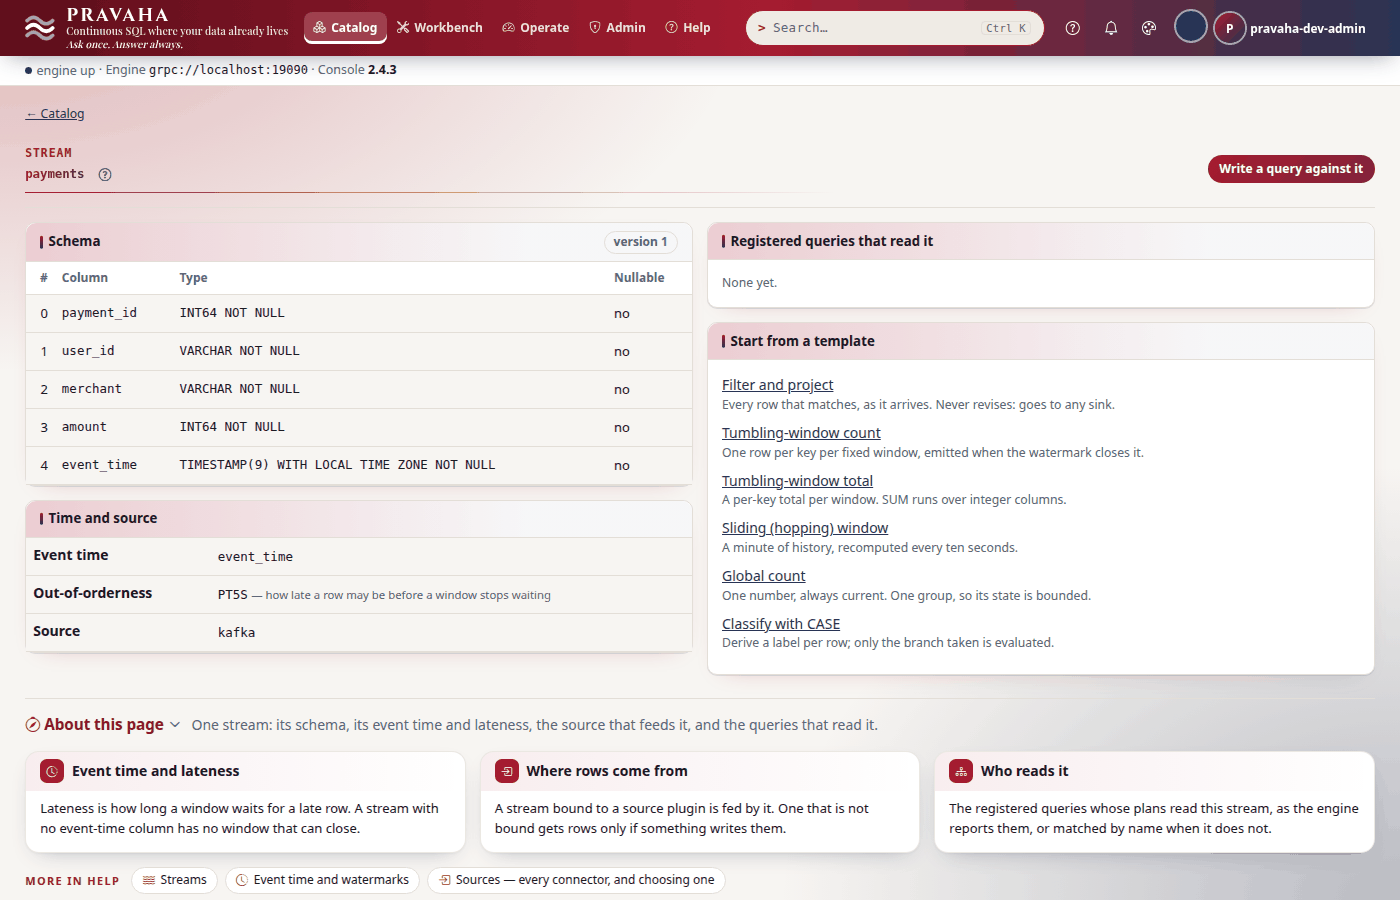
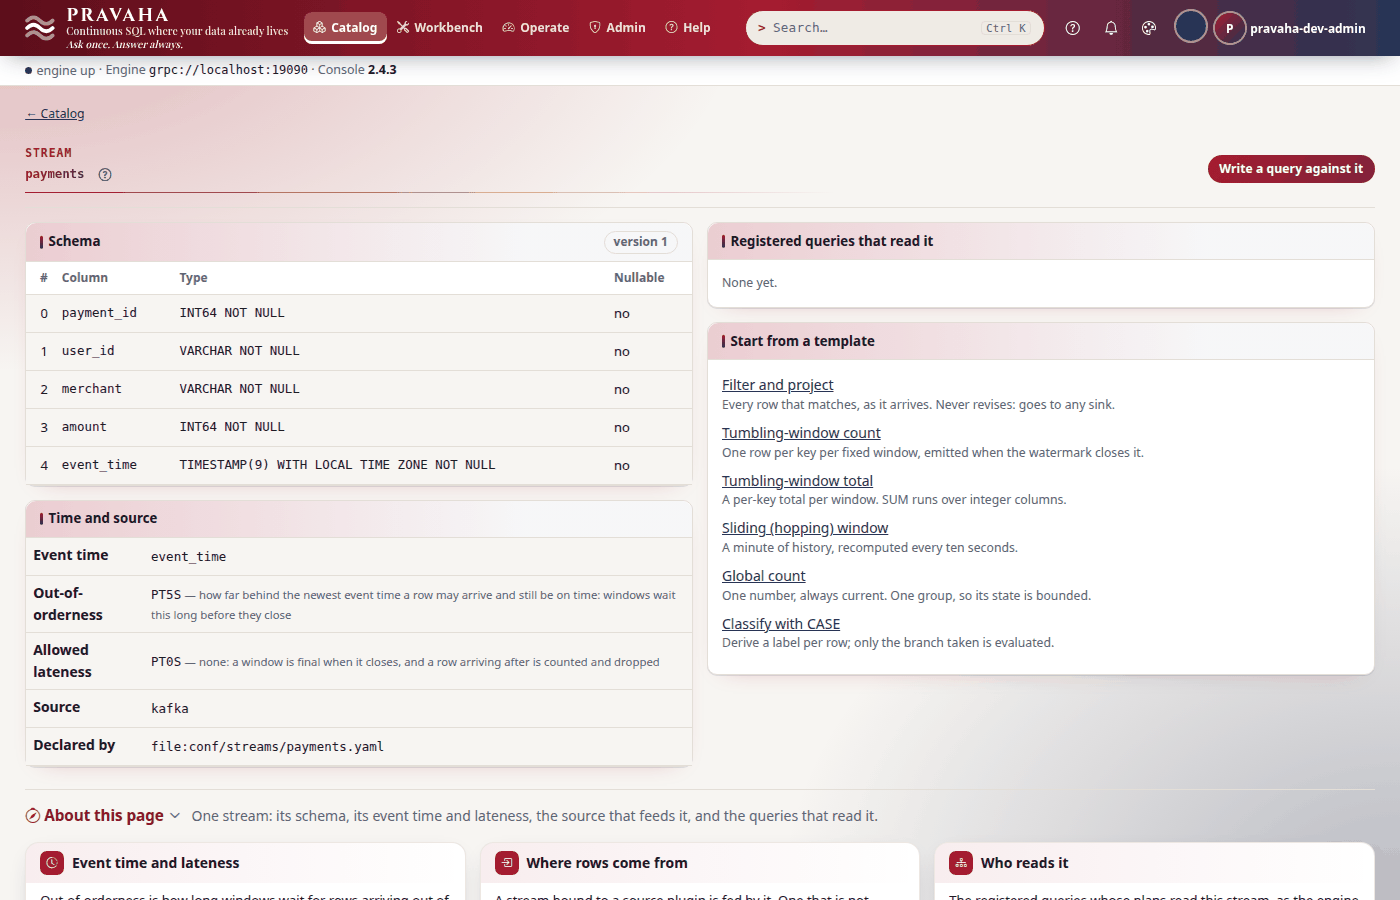
Tutorial 7: the broker said once, a named connection per plugin (kafka-local, kafka-local-out), the streams and sinks a file each; the stream page with its origin

Changed region(s): [[0.0, 0.6533, 0.9829, 1.0], [0.1229, 0.5911, 0.1843, 0.6222], [0.86, 0.0, 0.8907, 0.0311]]

diff --git a/sdk/python/tools/tutorials/t07.py b/sdk/python/tools/tutorials/t07.py
@@ -28,6 +28,9 @@ KAFKA = Container(
 )
 
 NODE = Node(config="t07/application.yaml", containers=(KAFKA,), files=(
+    ("t07/streams", "conf/streams"),
+    ("t07/sinks", "conf/sinks"),
+    ("t07/connectors", "conf/connectors"),
     ("t07/payments.jsonl", "payments.jsonl"),
     ("t07/user_spend.avsc", "conf/user_spend.avsc"),
     ("t07/user_spend.avsc", "user_spend.avsc"),
@@ -85,6 +88,7 @@ STEPS = (
     Cli("t07-plugins", ("plugins",), omit=(r"^(?!NAME|kafka)",)),
     Cli("t07-streams", ("streams", "list")),
     Cli("t07-sinks", ("sinks",)),
+    Cli("t07-connectors", ("connectors", "list")),
     Open("/catalog/streams/payments"),
     Snap("01-stream"),
     Cli("t07-register-big", ("register", *Q, "--sql", BIG, "--keys", "0", "--sink", "big_payments_out")),

diff --git a/docs/tutorials/07-kafka-end-to-end.md b/docs/tutorials/07-kafka-end-to-end.md
@@ -19,17 +19,18 @@ file. Every output below was printed by a real node and a real broker running th
   windows in step 5, and [tutorial 6](06-investigating-an-incident.md) for the dead-letter queue.
 - Docker, to run a Kafka broker. The tutorial uses `apache/kafka:3.9.1` on `localhost:9092`; if
   something of yours already listens there, publish the broker on another port (`-p 29092:9092`) and
-  change `bootstrap.servers` to match.
-- The tutorial's files, in [data/t07/](data/t07/): `application.yaml` (two Kafka sources, two Kafka
-  sinks, a dead-letter queue, checkpoints every 5 seconds), `payments.jsonl` (eight payments, one JSON
-  object a line), `user_spend.sql` and `user_spend.avsc` (the Avro schema both sides use).
+  change `bootstrap.servers` to match — in the two files of `connectors/`, the only place it is written.
+- The tutorial's files, in [data/t07/](data/t07/): `application.yaml` (a dead-letter queue, checkpoints
+  every 5 seconds), two streams fed by Kafka (`streams/`), two Kafka sinks (`sinks/`), the broker as a
+  named connection for each plugin (`connectors/`), `payments.jsonl` (eight payments, one JSON object a
+  line), `user_spend.sql` and `user_spend.avsc` (the Avro schema both sides use).
 - A broker, and a node home with the configuration and the schema in place:
 
 ```bash
 docker run -d --name pravaha-kafka -p 9092:9092 apache/kafka:3.9.1
 export PRAVAHA_HOME=$HOME/pravaha-t07
 mkdir -p $PRAVAHA_HOME/conf $PRAVAHA_HOME/data
-cp docs/tutorials/data/t07/application.yaml docs/tutorials/data/t07/user_spend.avsc $PRAVAHA_HOME/conf/
+cp -r docs/tutorials/data/t07/{application.yaml,user_spend.avsc,streams,sinks,connectors} $PRAVAHA_HOME/conf/
 cd docs/tutorials/data/t07
 ```
 
@@ -90,32 +91,45 @@ You should see three `Created topic` lines, and the payments as JSON objects.
 
 ## Step 2 · Bind the topic to a stream
 
-The binding is configuration. The stream says what a payment is; the source says where payments come
-from and how a record's value becomes a row:
+The binding is configuration, a file per stream. The stream says what a payment is; its `source:`
+says where payments come from and how a record's value becomes a row. Where the broker is — and, in
+production, its TLS and SASL settings — is said once, in a **named connection** every Kafka binding
+names:
 
 ```yaml
-# data/t07/application.yaml (the payments)
+# conf/connectors/kafka-local.yaml (the broker, for the kafka source plugin)
+plugin: kafka
+options:
+  bootstrap.servers: "localhost:9092"
+```
+
+```yaml
+# conf/streams/payments.yaml
+schema: "payment_id:INT64,user_id:STRING,merchant:STRING,amount:INT64,event_time:TIMESTAMP"
+event-time: event_time
+out-of-orderness: 5s
+source:
+  connector: kafka-local              # the plugin and bootstrap.servers come from the connection
+  options:
+    topic: payments
+    schema: "payment_id:INT64,user_id:STRING,merchant:STRING,amount:INT64,event_time:TIMESTAMP"
+    format: json                      # each value a JSON object of the row, by column name
+    start.from: earliest
+    monitoring.group: pravaha-payments   # checkpointed offsets reported here; never read back
+```
+
+```yaml
+# conf/application.yaml
 pravaha:
-  streams:
-    payments:
-      schema: "payment_id:INT64,user_id:STRING,merchant:STRING,amount:INT64,event_time:TIMESTAMP"
-      event-time: event_time
-      out-of-orderness: 5s
-  sources:
-    payments:
-      plugin: kafka
-      options:
-        bootstrap.servers: "localhost:9092"
-        topic: payments
-        schema: "payment_id:INT64,user_id:STRING,merchant:STRING,amount:INT64,event_time:TIMESTAMP"
-        format: json                  # each value a JSON object of the row, by column name
-        start.from: earliest
-        monitoring.group: pravaha-payments   # checkpointed offsets reported here; never read back
   dlq:
     directory: data/dlq               # a record no source can decode is set aside; the source reads on
   checkpoint:
     interval: 5s                      # the sinks commit what each checkpoint covers
 ```
+
+A binding's options are the connection's with its own laid over them; on a clash the binding wins. A
+connection is for one plugin: the sinks reach the same broker through `kafka-local-out`, whose plugin
+is `kafka-sink`, and naming a connection of the other plugin is refused (`PRV-1068`).
 
 `format: json` matches a value's members to the columns **by name**: a member the schema does not name
 is ignored, a missing one is null (and refused if the column is not nullable). `start.from: earliest`
@@ -139,9 +153,9 @@ kafka-sink        <version>    sink         yes         yes     UNKNOWN  sink:bi
 <!-- capture: t07-streams -->
 ```text
 $ pravaha streams list
-NAME             VERSION  EVENT TIME  LATENESS  SOURCE  FIELDS
-payments         1        event_time  PT5S      kafka   payment_id INT64 NOT NULL, user_id VARCHAR NOT NULL, merchant VARCHAR NOT NULL, amount INT64 NOT NULL, event_time TIMESTAMP(9) WITH LOCAL TIME ZONE NOT NULL
-user_spend_avro  1        window_end  PT10S     kafka   user_id VARCHAR NOT NULL, window_end TIMESTAMP(9) WITH LOCAL TIME ZONE NOT NULL, spend INT64 NOT NULL
+NAME             VERSION  EVENT TIME  LATENESS  SOURCE  ORIGIN                                  FIELDS
+payments         1        event_time  PT5S      kafka   file:conf/streams/payments.yaml         payment_id INT64 NOT NULL, user_id VARCHAR NOT NULL, merchant VARCHAR NOT NULL, amount INT64 NOT NULL, event_time TIMESTAMP(9) WITH LOCAL TIME ZONE NOT NULL
+user_spend_avro  1        window_end  PT10S     kafka   file:conf/streams/user_spend_avro.yaml  user_id VARCHAR NOT NULL, window_end TIMESTAMP(9) WITH LOCAL TIME ZONE NOT NULL, spend INT64 NOT NULL
 ```
 <!-- /capture -->
 
@@ -156,27 +170,37 @@ user_spend_out    kafka-sink  RETRACT,UPSERT  yes          EXACTLY_ONCE  -      
 
 `HEALTH UNKNOWN` is honest: nothing has opened a reader yet. A source is opened when the first query
 over it is registered, not when the node starts. The second stream, `user_spend_avro`, is step 6's.
+Each connection lists what names it:
 
-![The Catalog page of the stream payments: its five columns payment_id, user_id, merchant, amount and event_time with their types, event time event_time, out-of-orderness PT5S and source kafka; no registered query reads it yet, and templates for a first query](img/t07/01-stream.png)
+<!-- capture: t07-connectors -->
+```text
+$ pravaha connectors list
+NAME             PLUGIN      ORIGIN                                     USED BY
+kafka-local      kafka       file:conf/connectors/kafka-local.yaml      source:payments, source:user_spend_avro
+kafka-local-out  kafka-sink  file:conf/connectors/kafka-local-out.yaml  sink:big_payments_out, sink:user_spend_out
+```
+<!-- /capture -->
 
-You should see `kafka` and `kafka-sink` loaded, two streams whose source is `kafka`, and two sinks
-that promise `EXACTLY_ONCE`.
+A connection something names is not changed or removed under it: its file's change waits, reported
+as not applied (`PRV-1065`), until nothing names it.
+
+![The Catalog page of the stream payments: its five columns payment_id, user_id, merchant, amount and event_time with their types, event time event_time, out-of-orderness PT5S, source kafka and Declared by file:conf/streams/payments.yaml; no registered query reads it yet, and templates for a first query](img/t07/01-stream.png)
+
+You should see `kafka` and `kafka-sink` loaded, two streams whose source is `kafka`, two sinks
+that promise `EXACTLY_ONCE`, and each connection used by two bindings.
 
 ## Step 3 · A continuous query over the topic, written back to Kafka
 
 Register the payments of 2000 or more, keyed by `payment_id`, writing to the sink `big_payments_out`:
 
 ```yaml
-# data/t07/application.yaml (the sink)
-  sinks:
-    big_payments_out:
-      plugin: kafka-sink
-      options:
-        bootstrap.servers: "localhost:9092"
-        topic: big-payments
-        schema: "payment_id:INT64,user_id:STRING,amount:INT64"
-        key.columns: payment_id
-        transactional: "true"
+# conf/sinks/big_payments_out.yaml (the broker comes from conf/connectors/kafka-local-out.yaml)
+connector: kafka-local-out
+options:
+  topic: big-payments
+  schema: "payment_id:INT64,user_id:STRING,amount:INT64"
+  key.columns: payment_id
+  transactional: "true"
 ```
 
 <!-- capture: t07-register-big -->
@@ -377,26 +401,27 @@ Each user's spend per closed minute, written in Avro. The schema is a file both 
 ```
 
 ```yaml
-# data/t07/application.yaml (Avro out, and back in)
-  sinks:
-    user_spend_out:
-      plugin: kafka-sink
-      options:
-        bootstrap.servers: "localhost:9092"
-        topic: user-spend
-        schema: "user_id:STRING,window_end:TIMESTAMP(3),spend:INT64"
-        key.columns: "user_id,window_end"
-        format: avro
-        schema.file: conf/user_spend.avsc
-  sources:
-    user_spend_avro:
-      plugin: kafka
-      options:
-        bootstrap.servers: "localhost:9092"
-        topic: user-spend
-        schema: "user_id:STRING,window_end:TIMESTAMP,spend:INT64"
-        format: avro
-        schema.file: conf/user_spend.avsc   # the writer schema; no registry needed
+# conf/sinks/user_spend_out.yaml (Avro out)
+connector: kafka-local-out
+options:
+  topic: user-spend
+  schema: "user_id:STRING,window_end:TIMESTAMP(3),spend:INT64"
+  key.columns: "user_id,window_end"
+  format: avro
+  schema.file: conf/user_spend.avsc
+```
+
+```yaml
+# conf/streams/user_spend_avro.yaml (and back in)
+schema: "user_id:STRING,window_end:TIMESTAMP,spend:INT64"
+event-time: window_end
+source:
+  connector: kafka-local
+  options:
+    topic: user-spend
+    schema: "user_id:STRING,window_end:TIMESTAMP,spend:INT64"
+    format: avro
+    schema.file: conf/user_spend.avsc   # the writer schema; no registry needed
 ```
 
 `TIMESTAMP(3)` on the sink is deliberate: an Avro `timestamp-millis` holds milliseconds, and a column
@@ -521,6 +546,7 @@ You should see `UP`.
 
 | Symptom | What it means | What to do |
 |---|---|---|
+| `PRV-1068` at start | a binding names a connection of the other plugin (a sink naming `kafka-local`) | sinks name `kafka-local-out`, sources `kafka-local` |
 | `PRV-5101` when a query writing to the sink registers | the sink's target topic does not exist; the sink never creates it | create it (`kafka-topics.sh --create`) and register again |
 | `PRV-8010` at `register --sink` | the sink's `schema` is not the query's `SELECT` list, or `key.columns` is not the view's key | make them agree, column for column |
 | `PRV-5105`, the feed stops, health `DEGRADED` | a record did not decode and there is no dead-letter queue | set `pravaha.dlq.directory`; fix the producer |
